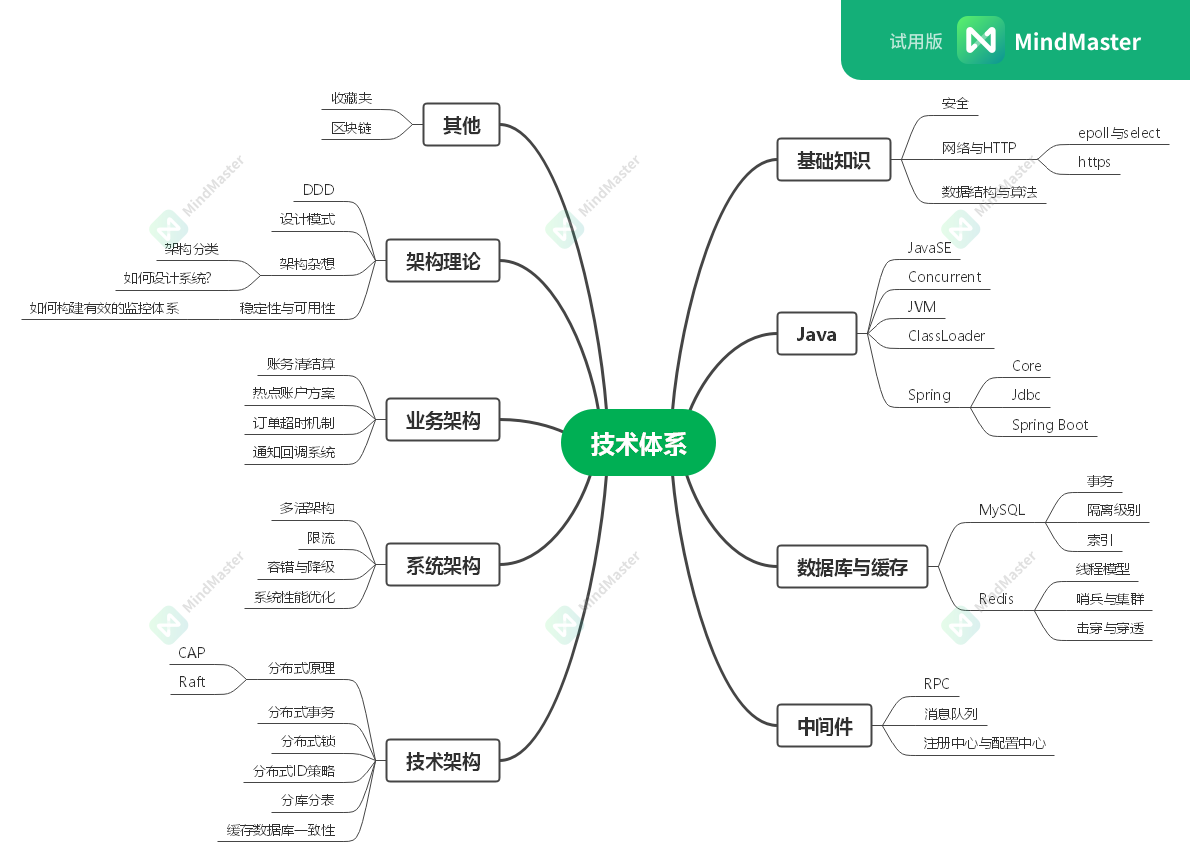
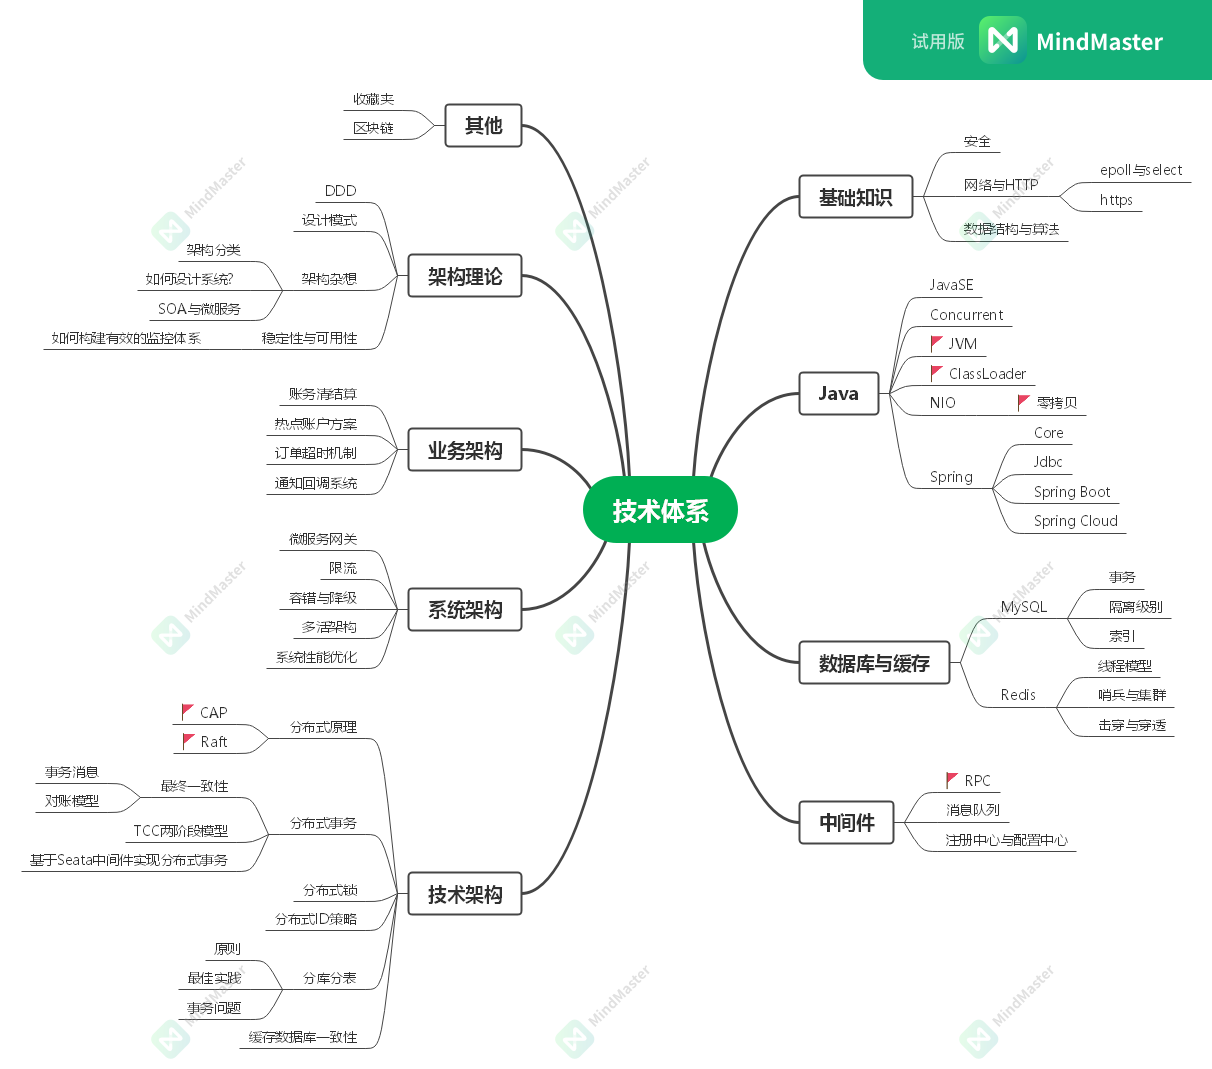
commit base

diff --git a/docs/tech_arch/distribution_transaction.md b/docs/tech_arch/distribution_transaction.md
@@ -1,0 +1,38 @@
+# 分布式事务
+
+## 产生分布式事务的原因
+
+**分布式事务归根还是数据的一个一致性问题，和Raft要解决的同一个数据的一致性不同；分布式事务要解决在一个事务中，数据的变更需要一致，要么全提交、要么全回滚，ACID**
+
+**基于不同的架构视角，产生分布式事务的原因是不一样的**
+
+- 在单应用架构下，系统为了提升性能和未来的高可扩展，会进行分库或者分表；而进行`分库`之后，由于事务操作可能不在一个数据库中完成，从而导致单连接的事务失效，导致数据不一致；而`分表`操作由于还是在同一个数据库内完成，基本不涉及`分布式事务`问题
+
+- 在微服务架构下，由于一次完整的业务流程会调用多个微服务，数据会在多个上下游系统中流转，各个系统数据库资源独立；任何一步异常都会导致事务的数据结果不一致
+
+![分布式事务_产生原因](./imgs/分布式事务_产生原因.png)
+
+----
+
+## BASE理论
+
+**- Basically Available(基本可用):** 在分布式集群当中，某一个服务节点宕机，或者数据在复制的过程中又部分不可用，不影响整个系统的可用性（因为可以基于后续的流程进行补偿）。
+
+**- Soft State(软状态):** 软状态理解为一个中间状态，允许数据在节点集群间操作的过程中，存在一个延时；但是这个中间状态，最后一定会转为一个终态。
+
+**- Eventual Consistency(最终一致性):** 数据在分布式集群节点间的同步操作存在延时，这与ACID原则相反，在中间的一段时间内，数据是不一致的；但是经过一段时间后，分布式集群节点间的数据拷贝可以达到最终一致性。
+
+----
+
+## 最终一致性解决方案
+
+### 基于可靠性消息实现最终一致性（事务消息）
+
+#### 基于本地事务消息表
+
+#### 基于消息投递服务
+
+### 基于对账机制实现最终一致性
+
+**参考：**
+> ebay基于本地消息表实现分布式事务的完整方案：https://queue.acm.org/detail.cfm?id=1394128。

diff --git a/docs/_sidebar.md b/docs/_sidebar.md
@@ -26,7 +26,7 @@
 * 技术架构
 
     * [分布式原理](tech_arch/distribution_consistence.md)
-    * [分布式事务]
+    * [分布式事务](tech_arch/distribution_transaction.md)
     * [分布式锁]
     * [分布式ID策略]
     * [分库分表]
@@ -37,6 +37,7 @@
     * [多活架构]
     * [限流]
     * [容错降级]
+    * [微服务网关]
     * [系统性能优化]
 
 * 业务架构
@@ -56,4 +57,5 @@
 * 其他
 
     * [收藏夹](others/favorites.md)
+    * [工作生活]
     * [区块链]

diff --git a/docs/system_arch/microservice_gateway.md b/docs/system_arch/microservice_gateway.md
@@ -1,0 +1,6 @@
+# 微服务网关
+
+**参考**
+> 百亿流量微服务网关的设计与实现: http://blog.itpub.net/31562044/viewspace-2651041/
+>
+> pringCloud gateway （史上最全）: https://www.cnblogs.com/crazymakercircle/p/11704077.html
